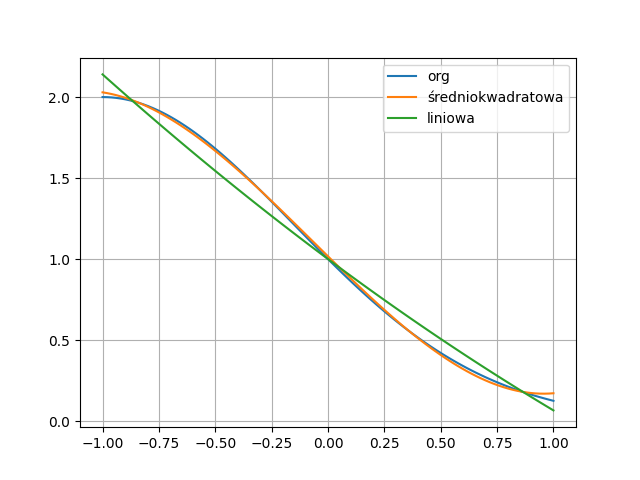
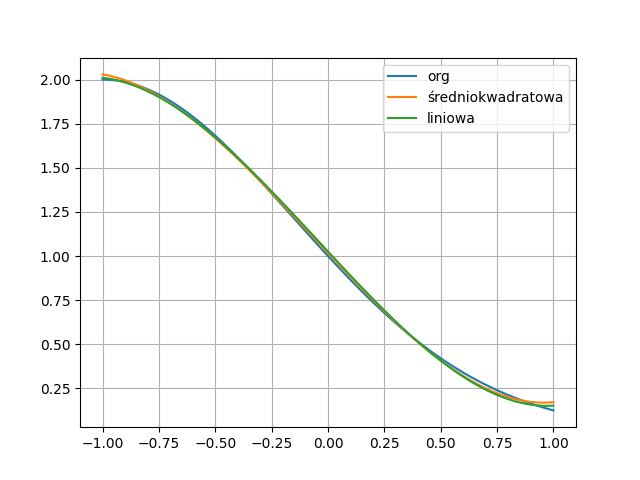
small code refactor

diff --git a/L3/L3.py b/L3/L3.py
@@ -18,8 +18,8 @@ def sign_func(x):
 
 def zad1():
     c.draw_plots(exp_func, "y = exp((x**2), <-1,1>")
-    # c.draw_plots(abs_func, "y = abs(x+x**3), <-1,1>")
-    # c.draw_plots(sign_func, "y = sign(x), <-1,1>")
+    c.draw_plots(abs_func, "y = abs(x+x**3), <-1,1>")
+    c.draw_plots(sign_func, "y = sign(x), <-1,1>")
 
 
 def zad2_func(x):
@@ -37,8 +37,8 @@ def zad2():
     plt.figure()
     plt.plot(x_grid, zad2_func(x_grid), label="org")
     plt.plot(x_grid, zad2_approx(x_grid), label="średniokwadratowa")
-    Tf_2 = c.Chebyshev.approximation(x_min, x_max, 2, zad2_func)
-    plt.plot(x_grid, Tf_2, label="liniowa")
+    Tf_3 = c.Chebyshev.approximation(x_min, x_max, 3, zad2_func)
+    plt.plot(x_grid, Tf_3, label="liniowa")
     plt.legend()
     plt.grid()
     plt.show()
